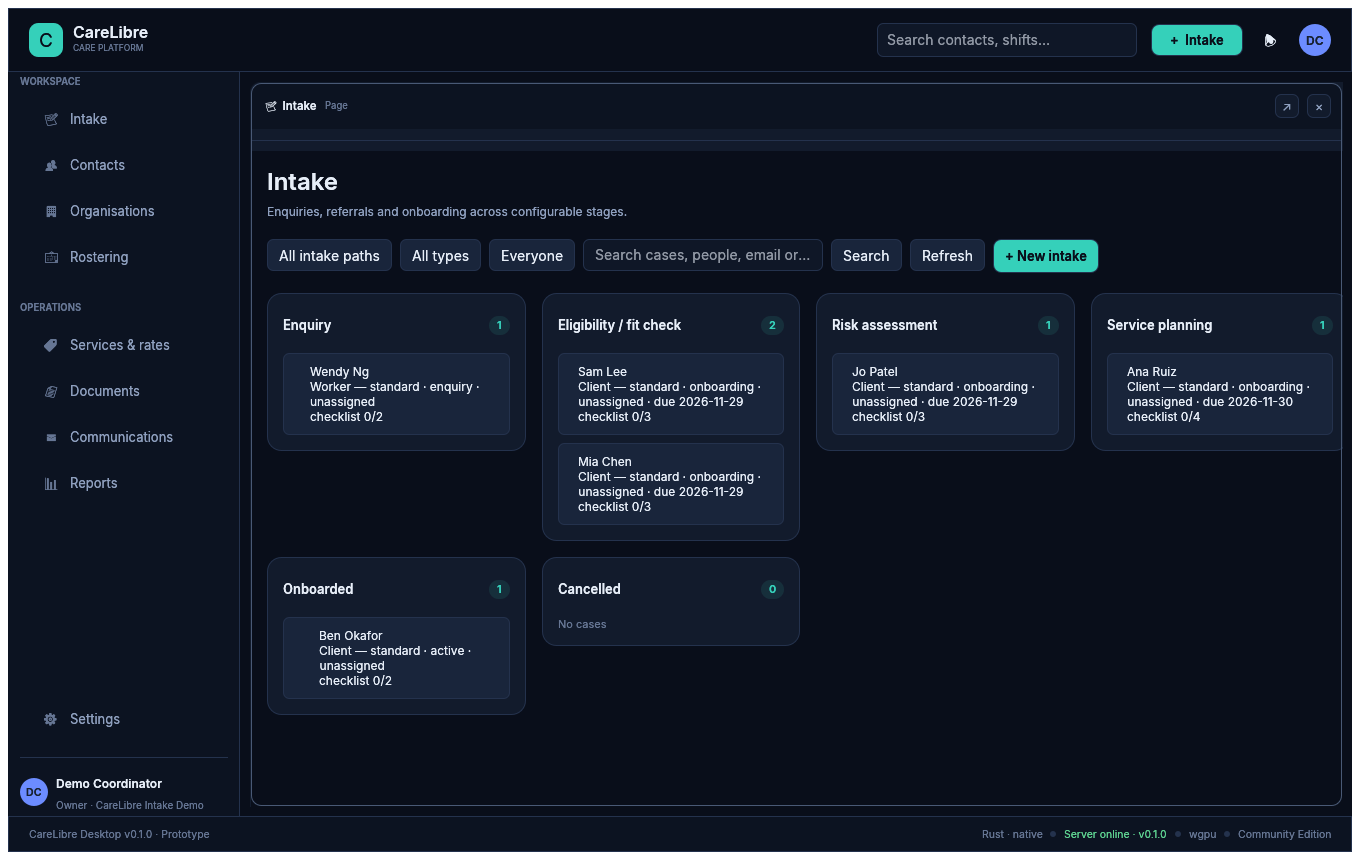
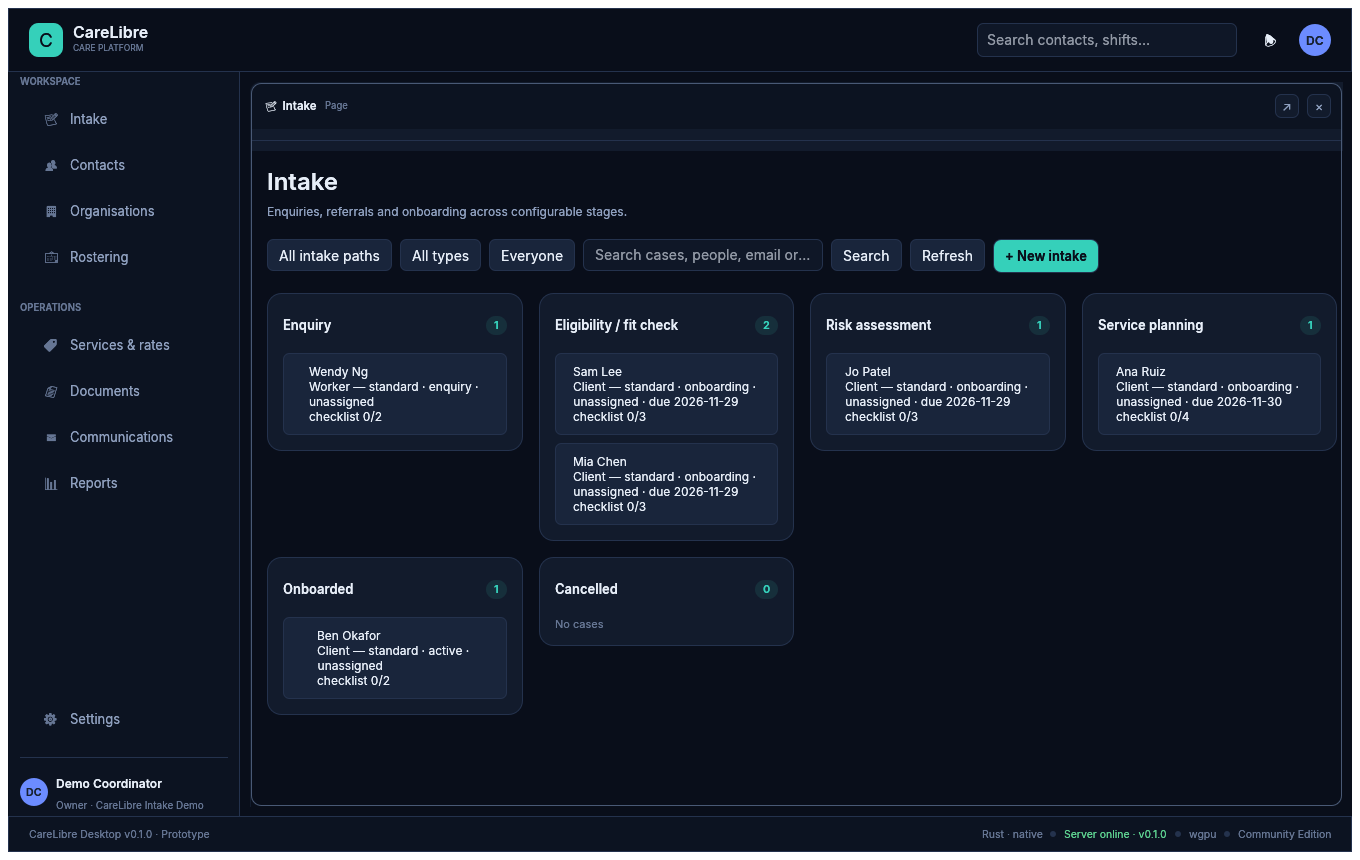
Refine intake picker and board layout
Show intake paths as described cards, keep internal variant names out of the user UI, remove the redundant top-bar intake and contact buttons, and add right-side board padding.

diff --git a/src/pages/intake/board.rs b/src/pages/intake/board.rs
@@ -343,7 +343,6 @@ pub enum IntakeCaseAction {
     Cancel {
         reason: String,
     },
-    OpenContact(String),
 }
 
 pub fn show(
@@ -456,6 +455,68 @@ pub fn show(
     action
 }
 
+fn intake_flow_card(ui: &mut Ui, flow: &ApiIntakeFlow, selected: bool) -> bool {
+    let mut text = egui::text::LayoutJob::default();
+    text.append(
+        &flow.name,
+        0.0,
+        egui::text::TextFormat {
+            font_id: theme::strong_font(13.0),
+            color: theme::text(),
+            ..Default::default()
+        },
+    );
+    text.append("\n", 0.0, egui::text::TextFormat::default());
+    let description = flow
+        .description
+        .as_deref()
+        .map(str::trim)
+        .filter(|description| !description.is_empty());
+    match description {
+        Some(description) => {
+            text.append(
+                description,
+                0.0,
+                egui::text::TextFormat {
+                    font_id: egui::FontId::proportional(11.0),
+                    color: theme::muted(),
+                    ..Default::default()
+                },
+            );
+        }
+        None => {
+            text.append(
+                "No description set for this path.",
+                0.0,
+                egui::text::TextFormat {
+                    font_id: egui::FontId::proportional(11.0),
+                    color: theme::faint(),
+                    ..Default::default()
+                },
+            );
+        }
+    }
+    let response = ui.add(
+        egui::Button::new(text)
+            .selected(selected)
+            .frame(true)
+            .wrap()
+            .fill(if selected {
+                theme::surface_raised()
+            } else {
+                theme::surface()
+            })
+            .stroke(if selected {
+                Stroke::new(1.5, theme::accent())
+            } else {
+                Stroke::new(1.0, theme::border())
+            })
+            .corner_radius(egui::CornerRadius::same(10))
+            .min_size(egui::vec2(ui.available_width(), 0.0)),
+    );
+    response.clicked()
+}
+
 fn new_intake_dialog(
     ctx: &egui::Context,
     state: &mut IntakeBoardState,
@@ -465,7 +526,7 @@ fn new_intake_dialog(
     egui::Window::new("New intake")
         .open(&mut open)
         .anchor(egui::Align2::CENTER_CENTER, egui::Vec2::ZERO)
-        .default_width(440.0)
+        .default_width(620.0)
         .resizable(false)
         .collapsible(false)
         .show(ctx, |ui| {
@@ -475,28 +536,22 @@ fn new_intake_dialog(
                     .color(theme::muted())
                     .size(11.0),
             );
-            let current_flow = state
-                .new_flow_id
-                .as_deref()
-                .and_then(|id| state.flows.iter().find(|flow| flow.id == id))
-                .map(|flow| flow.name.clone())
-                .unwrap_or_else(|| "Choose intake path".to_owned());
-            ui.menu_button(current_flow, |ui| {
-                ui.set_min_width(300.0);
-                for flow in &state.flows {
-                    let label = match flow.variant.as_deref() {
-                        Some(variant) if !variant.is_empty() => {
-                            format!("{} · {variant}", flow.name)
+            let selected_id = state.new_flow_id.clone();
+            ScrollArea::vertical()
+                .id_salt("new-intake-paths")
+                .max_height(300.0)
+                .auto_shrink([false, false])
+                .scroll_bar_visibility(egui::scroll_area::ScrollBarVisibility::AlwaysVisible)
+                .show(ui, |ui| {
+                    ui.set_width(ui.available_width());
+                    for flow in &state.flows {
+                        let selected = selected_id.as_deref() == Some(flow.id.as_str());
+                        if intake_flow_card(ui, flow, selected) {
+                            state.new_flow_id = Some(flow.id.clone());
                         }
-                        _ => flow.name.clone(),
-                    };
-                    let selected = state.new_flow_id.as_deref() == Some(flow.id.as_str());
-                    if ui.selectable_label(selected, label).clicked() {
-                        state.new_flow_id = Some(flow.id.clone());
-                        ui.close();
+                        ui.add_space(4.0);
                     }
-                }
-            });
+                });
             ui.add_space(8.0);
 
             ui.horizontal(|ui| {
@@ -641,13 +696,7 @@ fn toolbar(ui: &mut Ui, state: &mut IntakeBoardState, action: &mut Option<Intake
             ui.separator();
             for flow in &state.flows {
                 let mut selected = state.selected_flows.contains(&flow.id);
-                let label = match flow.variant.as_deref() {
-                    Some(variant) if !variant.is_empty() => {
-                        format!("{} · {variant}", flow.name)
-                    }
-                    _ => flow.name.clone(),
-                };
-                if ui.checkbox(&mut selected, label).changed() {
+                if ui.checkbox(&mut selected, flow.name.clone()).changed() {
                     if selected {
                         state.selected_flows.insert(flow.id.clone());
                     } else {
@@ -732,7 +781,8 @@ fn board_columns(ui: &mut Ui, board: &ApiIntakeBoard, action: &mut Option<Intake
     ScrollArea::vertical()
         .auto_shrink([false, false])
         .show(ui, |ui| {
-            let (per_row, width) = board_layout(ui.available_width());
+            let available = (ui.available_width() - BOARD_RIGHT_PADDING).max(1.0);
+            let (per_row, width) = board_layout(available);
             for row in board.columns.chunks(per_row) {
                 ui.horizontal_top(|ui| {
                     for (position, column) in row.iter().enumerate() {
@@ -752,6 +802,7 @@ fn board_columns(ui: &mut Ui, board: &ApiIntakeBoard, action: &mut Option<Intake
 
 const BOARD_MIN_COLUMN_WIDTH: f32 = 240.0;
 const BOARD_GAP: f32 = 8.0;
+const BOARD_RIGHT_PADDING: f32 = 12.0;
 
 /// Fit as many columns as possible on each row without horizontal scrolling.
 /// A single column always takes the full available width, however narrow.
@@ -889,16 +940,11 @@ fn case_body(
         });
         if let Some(contact) = &case.contact {
             ui.add_space(6.0);
-            ui.horizontal_wrapped(|ui| {
-                ui.label(
-                    RichText::new(format!("{} · {}", contact.display_name, contact.role))
-                        .color(theme::muted())
-                        .size(12.0),
-                );
-                if ui.small_button("Open contact").clicked() {
-                    *action = Some(IntakeCaseAction::OpenContact(contact.id.clone()));
-                }
-            });
+            ui.label(
+                RichText::new(format!("{} · {}", contact.display_name, contact.role))
+                    .color(theme::muted())
+                    .size(12.0),
+            );
         }
         ui.label(
             RichText::new(format!("Intake path: {}", case.case.flow.name))
@@ -1038,7 +1084,11 @@ fn case_body(
         }
         ui.add_enabled_ui(!state.transitioning && !state.dirty, |ui| {
             ui.horizontal_wrapped(|ui| {
-                for stage in &case.allowed_transitions {
+                for stage in case
+                    .allowed_transitions
+                    .iter()
+                    .filter(|stage| stage.kind != "cancelled")
+                {
                     if ui
                         .button(format!("→ {}", stage.name))
                         .on_hover_text(format!("Move to {}", stage.name))

diff --git a/src/app.rs b/src/app.rs
@@ -1840,7 +1840,6 @@ impl CareLibreApp {
             IntakeCaseAction::Cancel { reason } => {
                 self.request_intake_cancel(case_id.to_owned(), reason);
             }
-            IntakeCaseAction::OpenContact(contact_id) => self.open_contact(&contact_id),
         }
     }
 
@@ -6208,20 +6207,6 @@ impl CareLibreApp {
                         }
 
                         ui.add_space(4.0);
-
-                        let intake_button = ui.add(
-                            egui::Button::new(
-                                RichText::new("+  Intake")
-                                    .color(theme::on_accent())
-                                    .font(theme::strong_font(13.0)),
-                            )
-                            .fill(theme::accent())
-                            .corner_radius(CornerRadius::same(8))
-                            .min_size(vec2(92.0, 32.0)),
-                        );
-                        if intake_button.clicked() {
-                            self.open_intake();
-                        }
 
                         let close_all_target = if self.visible_column_count() > 1 {
                             1.0

diff --git a/src/intake_board.rs b/src/intake_board.rs
@@ -18,6 +18,8 @@ pub struct ApiIntakeFlow {
     pub subject_kind: String,
     pub variant: Option<String>,
     #[serde(default)]
+    pub description: Option<String>,
+    #[serde(default)]
     pub is_active: bool,
     #[serde(default)]
     pub stages: Vec<ApiIntakeStage>,
